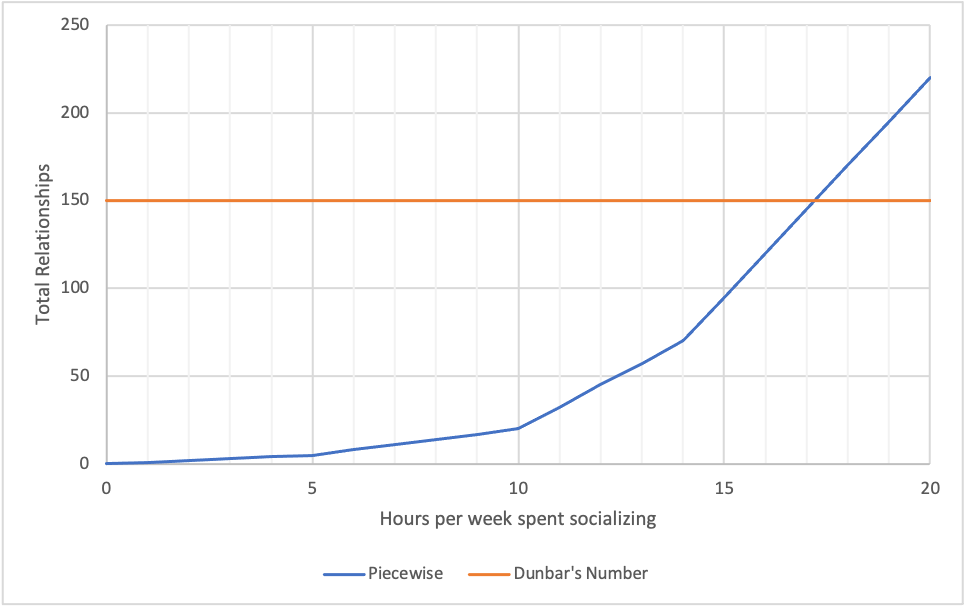
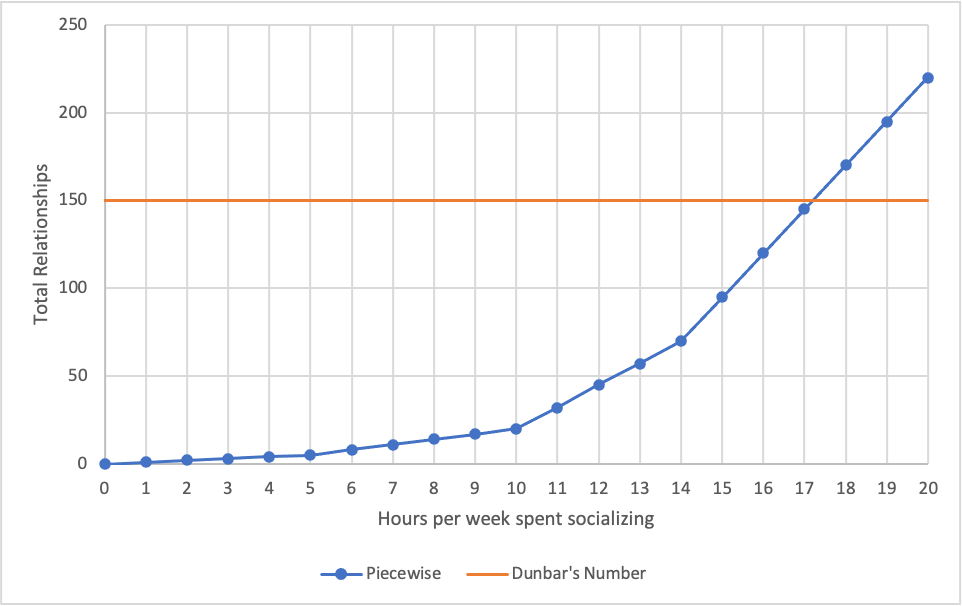
a

diff --git a/research/dunbar/dunbar.html b/research/dunbar/dunbar.html
@@ -25,7 +25,7 @@
 <h1 id="dunbar">Checking Dunbar</h1>
 
 <p>
-  In his 1992 paper, <a href="https://www.sciencedirect.com/science/article/abs/pii/004724849290081J?via%3Dihub">Neocortex size as a constraint on group size in primates</a>, Dunbar argues there is a limit of group size (read: social contacts) one can have—limited by their mental processing power. With this <a href="https://en.wikipedia.org/wiki/Dunbar%27s_number">Dunbar's</a> number of 150 was born, stating there is "suggested cognitive limit to the number of people with whom one can maintain stable social relationships—relationships in which an individual knows who each person is and how each person relates to every other person". In short, you can only have so many friendships before you aren't able to maintain all of them.
+  In his 1992 paper, <a href="https://www.sciencedirect.com/science/article/abs/pii/004724849290081J?via%3Dihub">Neocortex size as a constraint on group size in primates</a>, Dunbar argues there is a limit of social contacts one can have due to limited mental processing power (neocortex size). With this <a href="https://en.wikipedia.org/wiki/Dunbar%27s_number">Dunbar's</a> number of 150 was born, stating there is "suggested cognitive limit to the number of people with whom one can maintain stable social relationships—relationships in which an individual knows who each person is and how each person relates to every other person". In short, you can only have so many friendships before you aren't able to maintain all of them.
 </p>
 
 <hr>
@@ -37,7 +37,7 @@
 \[\log_{10}(N) = 0.093 + 3.389 \log_{10}(C_{R, homo})\]
 
 <p>
-  Where \(N\) is the mean group size and \(C_{R}\) is the neocortex ratio of homo (humans). Solving for \(N\) and substituting \(C_{R} = 4.1\) (last entry of Table 1):
+  Where \(N\) is the mean group size and \(C_{R, homo}\) is the neocortex ratio of homo (humans). Solving for \(N\) and substituting \(C_{R, homo} = 4.1\) (last entry of Table 1):
 </p>
 
 \[\begin{align*}
@@ -46,6 +46,30 @@
     &= 1.24 (4.1)^{3.39} \\\
     &= 148.2
 \end{align*}\]
+
+<p>
+  As for the confidence interval value of 100-230... I am not able to figure out the exact calculation. Dunbar confirms the value in his preprint <a href="https://pages.ucsd.edu/~johnson/COGS184/3Dunbar93.pdf">Coevolution of neocrotical size, group size and language in humans</a> (see paragraph four of "Results" section):
+</p>
+
+<blockquote>
+  Because the equation is log-transformed and we are extrapolating well beyond the range of neocortex ratios on which it is based, the 95% confidence limits around this prediction (from formulae given by Rayner 1985) are moderately wide (100.2-231.1).
+</blockquote>
+
+<p>
+  Rayner's referenced <a href="https://zslpublications.onlinelibrary.wiley.com/doi/epdf/10.1111/j.1469-7998.1985.tb05668.x">Linear relations in biomechanics: the statistics of scaling functions</a> is above my statistics skill level.
+</p>
+
+<p>
+  Dunbar responded to my question:
+</p>
+
+<blockquote>
+  In this case, they are calculated in the usual way: two standard deviations from the predicted value, with SDs are determined from the original graph and its moments. You will obviously be alert enough to notice that the original graph is a double log plot, so when you convert these back into raw scores, the value on the RHS will always be larger than that on the LHS.
+</blockquote>
+
+<p>
+  Please <a href="../../about/about/about.html#contact">contact me</a> if you can do the math.
+</p>
 
 <hr>
 
@@ -102,22 +126,9 @@
   </li>
 </ul>
 
-
-
-
-
-
-
-
-
-
-
-
 <h2 id="math">Do I Have Time to Be Your Friend? Let Me Check...</h2>
 
-<p>
-  Here I do some super rough math with three methods to check Dunbar's number based on my friendship requirements and figure out my own number.
-</p>
+<!--
 
 <p>
   Below are some basic assumptions about an average person's life (who lives alone and is not subject to seeing a family every day) that I do not think are unreasonable to apply to the general population:
@@ -141,8 +152,10 @@
   </li>
 </ul>
 
+-->
+
 <p>
-  Now we can apply weekly time requirements to maintain friendship levels across each Sx group, assuming Dunbar's mean Sx values are approximately correct.
+  Weekly time requirements can be applied to maintain friendship levels across each Sx group, assuming Dunbar's mean Sx values are approximately correct.
 </p>
 
 <ul>
@@ -164,7 +177,21 @@
 </ul>
 
 <p>
-  With these values, one can maintain a network of 220 relationships with a mere 20 hr/week, or 3 hr/day, of socializing! While possible, it is challenging, even if you <a href="../../thoughts/time/time.html#multiple_activities">combine multiple activities</a>. What about working backwards from the average socialization time, then finding a Dunbar number from that?
+  With these values, one can maintain a network of 220 relationships with 20 hr/week, or 3 hr/day, of socializing. While possible, it is challenging, even if you <a href="../../thoughts/time/time.html#multiple_activities">combine multiple activities</a>.
+</p>
+
+<p>
+  This forms a piecewise function with number of hours devoted to socialization as the independent variable and total number of relationships as the dependent variable, assuming you completely satisfy each Sx in order:
+</p>
+
+<img src="media/dunbar_plot.png" alt="dunbar_plot" class="center">
+
+<p>
+  The intersection of Dunbar's original 150 and the function is at 17.2 hr/week, or 2.5 hr/day, of socialization. This is not an unreasonable amount of time to spend socializing, given that the average person gets 7-10 hr/day of possible socialization time.
+</p>
+
+<p>
+  A Dunbar number can also be found by working backwards from the average socialization time.
 </p>
 
 <p>
@@ -179,35 +206,6 @@
   Assuming the loved ones are taken care of outside of the 38-minute average, the starting point is the S2 level. With a mere 5 hr (rounded up from 4.4 hr) of socialization per week, priorities must be chosen. S2 individuals can be focused on at the expense of S3, or a mix of the two can be formed. The number of friendship then ranges from 15 (only S2) to 53 (all of S3 + 3 S2s).
 </p>
 
-<p>
-  This forms a piecewise function with number of hours devoted to socialization as the independent variable and total number of relationships as the dependent variable, assuming you completely satisfy each Sx in order:
-</p>
-
-<img src="media/dunbar_plot.png" alt="dunbar_plot" class="center">
-
-<p>
-  The intersection of Dunbar's original 150 and the function is at 17.2 hr/week, or 2.5 hr/day, of socialization. This is not an unreasonable amount of time to spend socializing, given that the average person gets 16 hr/day of possible socialization time.
-</p>
-
-
-
-
-
-
-
-
-
-<h3 id="personal_number">Personal Number</h3>
-
-<p>
-  I currently (25 January 2021) live alone, do not have a girlfriend, and do not get much social interaction outside of work due to COVID-19.
-</p>
-
-
-
-
-
-
 
 <h2 id="variation_from_150">Variation from 150</h2>
 
@@ -215,22 +213,47 @@
 - introversion/extroversion
 - activities that people will think you're more fun
 - profession: required to be more cordial and know about people
-- amount of effort put into being frineds (remembering certain things, etc)
+- amount of effort put into being friends (remembering certain things, etc)
 -->
 
 <p>
-  Of course, the 150 is just
+  As stated before, 150 is just an estimate based on literal monkey brains mapped to human brains via a regression equation. The confidence interval of 100-230 proves the possible variation. There are a few more causes of variation that aren't based on biological factors, but personal ones.
 </p>
 
-
-
-\[\log_{10}(N) = 0.093 + 3.389 \log_{10}(C_{R})\]
-\[N = 10^{0.093} C_{R}^{3.39}\]
-\[N = 1.24 C_{R}^{3.39}\]
+<h3 id="intro_extroversion">Intro/Extroversion</h3>
 
 
 
 
+
+<h3 id="profession">Profession</h3>
+
+<p>
+  Working longer hours or in a role that doesn't allow as much socialization decreases the amount of hours available for socializing. For example, a friend works at a <a href="https://en.wikipedia.org/wiki/Big_Four_accounting_firms">Big Four company</a> in a management role and consistently works 12-14 hr/day and sleeps 6 hr/night, leaving him with 4-6 hr of free time per day. While he can still maintain the aforementioned 220 relationships, it would require 50-75% of his free time, way too much. (This doesn't take into account his working relationships, which I am unsure about.) It's easy to see that more hours limits the number of possible relationships by causing socialization to take up a greater percentage of free time.
+</p>
+
+<table align="center">
+  <caption>
+    Number of relationships based on 6 hours of free time
+  </caption>
+  <tr>
+    <th align="middle">% Free Time Spent Socializing</th>
+    <th align="middle">Number of Relationships</th>
+    <tr align="middle"><td>10</td><td>4</td></tr>
+    <tr align="middle"><td>25</td><td>26</td></tr>
+    <tr align="middle"><td>50</td><td>220</td></tr>
+  </tr>
+</table>
+
+<p>
+  The other factor is the nature of the profession. Working the night shift as a custodian provides less opportunities for forming relationships than being a sales rep for a company and having to maintain business relationships, which can often morph into personal friendships.
+</p>
+
+<h3 id="effort">Effort</h3>
+
+<p>
+  Putting effort into friendships makes a world of difference. Showing interest in someone's life makes them <a href="https://en.wikipedia.org/wiki/How_to_Win_Friends_and_Influence_People#Six_Ways_to_Make_People_Like_You">like you more</a> and thus easier to maintain relationships, i.e., less time is required. After all, who would want to remain friends with someone they don't like?
+</p>
 
 
 
@@ -238,8 +261,30 @@
 
 <h2 id="increasing">Increasing Your Dunbar Number</h2>
 
+<p>
+  Below are some concrete suggestions for increasing your Dunbar number or making maintaining your current one easier:
+</p>
+
+<ul>
+  <li>
+    <a href="../../thoughts/time/time.html#multiple_activities">Combine multiple activities</a>: Driving home after work? Call a friend instead of listening to that garbage on the radio. Cooking? Call a friend. The ideas are endless. Free time activities can be also formed around this concept. Enjoy soccer? Invite S(1-3) friends, fulfilling the weekly time requirement simultaneously.
+  </li>
+  <li>
+    Find ways to make people like you more.
+  </li>
+</ul>
 
 
+
+
+
+
+
+
+
+
+
+<h2 id="see_also">See Also</h2>
 
 
 

diff --git a/research/hot/hot.html b/research/hot/hot.html
@@ -1,0 +1,46 @@
+<!DOCTYPE html>
+<html>
+<head>
+  <title>[TITLE]</title>
+  <link rel="stylesheet" type="text/css" href="../../css/main.css">
+  <link rel="icon" href="../../media/ethan_morse_favicon.png">
+</head>
+
+<script src="https://polyfill.io/v3/polyfill.min.js?features=es6"></script>
+<script type="text/javascript" id="MathJax-script" async
+  src="https://cdn.jsdelivr.net/npm/mathjax@3/es5/tex-chtml.js">
+</script>
+
+<body>
+
+<h3 id="home"><a href="../../index.html">Home</a></h3>
+
+<!--
+- purpose + goals
+- physiology of spicy foods
+  - receptors
+  - does not kill taste buds, just numbs them
+- how hot sauce is made, especially the extreme ones
+- my plan
+  - start small, master each in small jumps, https://www.scovillescale.org/hot-sauce-scoville-scale/
+  - i expect it to take a few years
+
+-->
+
+
+<h1 id="hot">[TITLE]</h1>
+
+
+
+
+
+
+
+
+
+
+
+
+
+</body>
+</html>

diff --git a/index.html b/index.html
@@ -111,6 +111,9 @@
   <li>
     Checking Dunbar: Verifying <a href="https://en.wikipedia.org/wiki/Dunbar%27s_number">Dunbar's number</a> and other considerations.
   </li>
+  <li>
+    [TITLE]: Physiology of spicy food and developing a tolerance to progressively hotter sauces.
+  </li>
   -->
   <li>
     <a href="research/self/self.html">Self-Testing</a>: Log of tests I run on myself.

diff --git a/training/sugar/sugar.html b/training/sugar/sugar.html
@@ -328,7 +328,7 @@ paper names:
     Food: Oatmeal with honey.
   </li>
   <li>
-
+    Food: Oatmeal with<b>out</b> honey.
   </li>
   <li>
 
